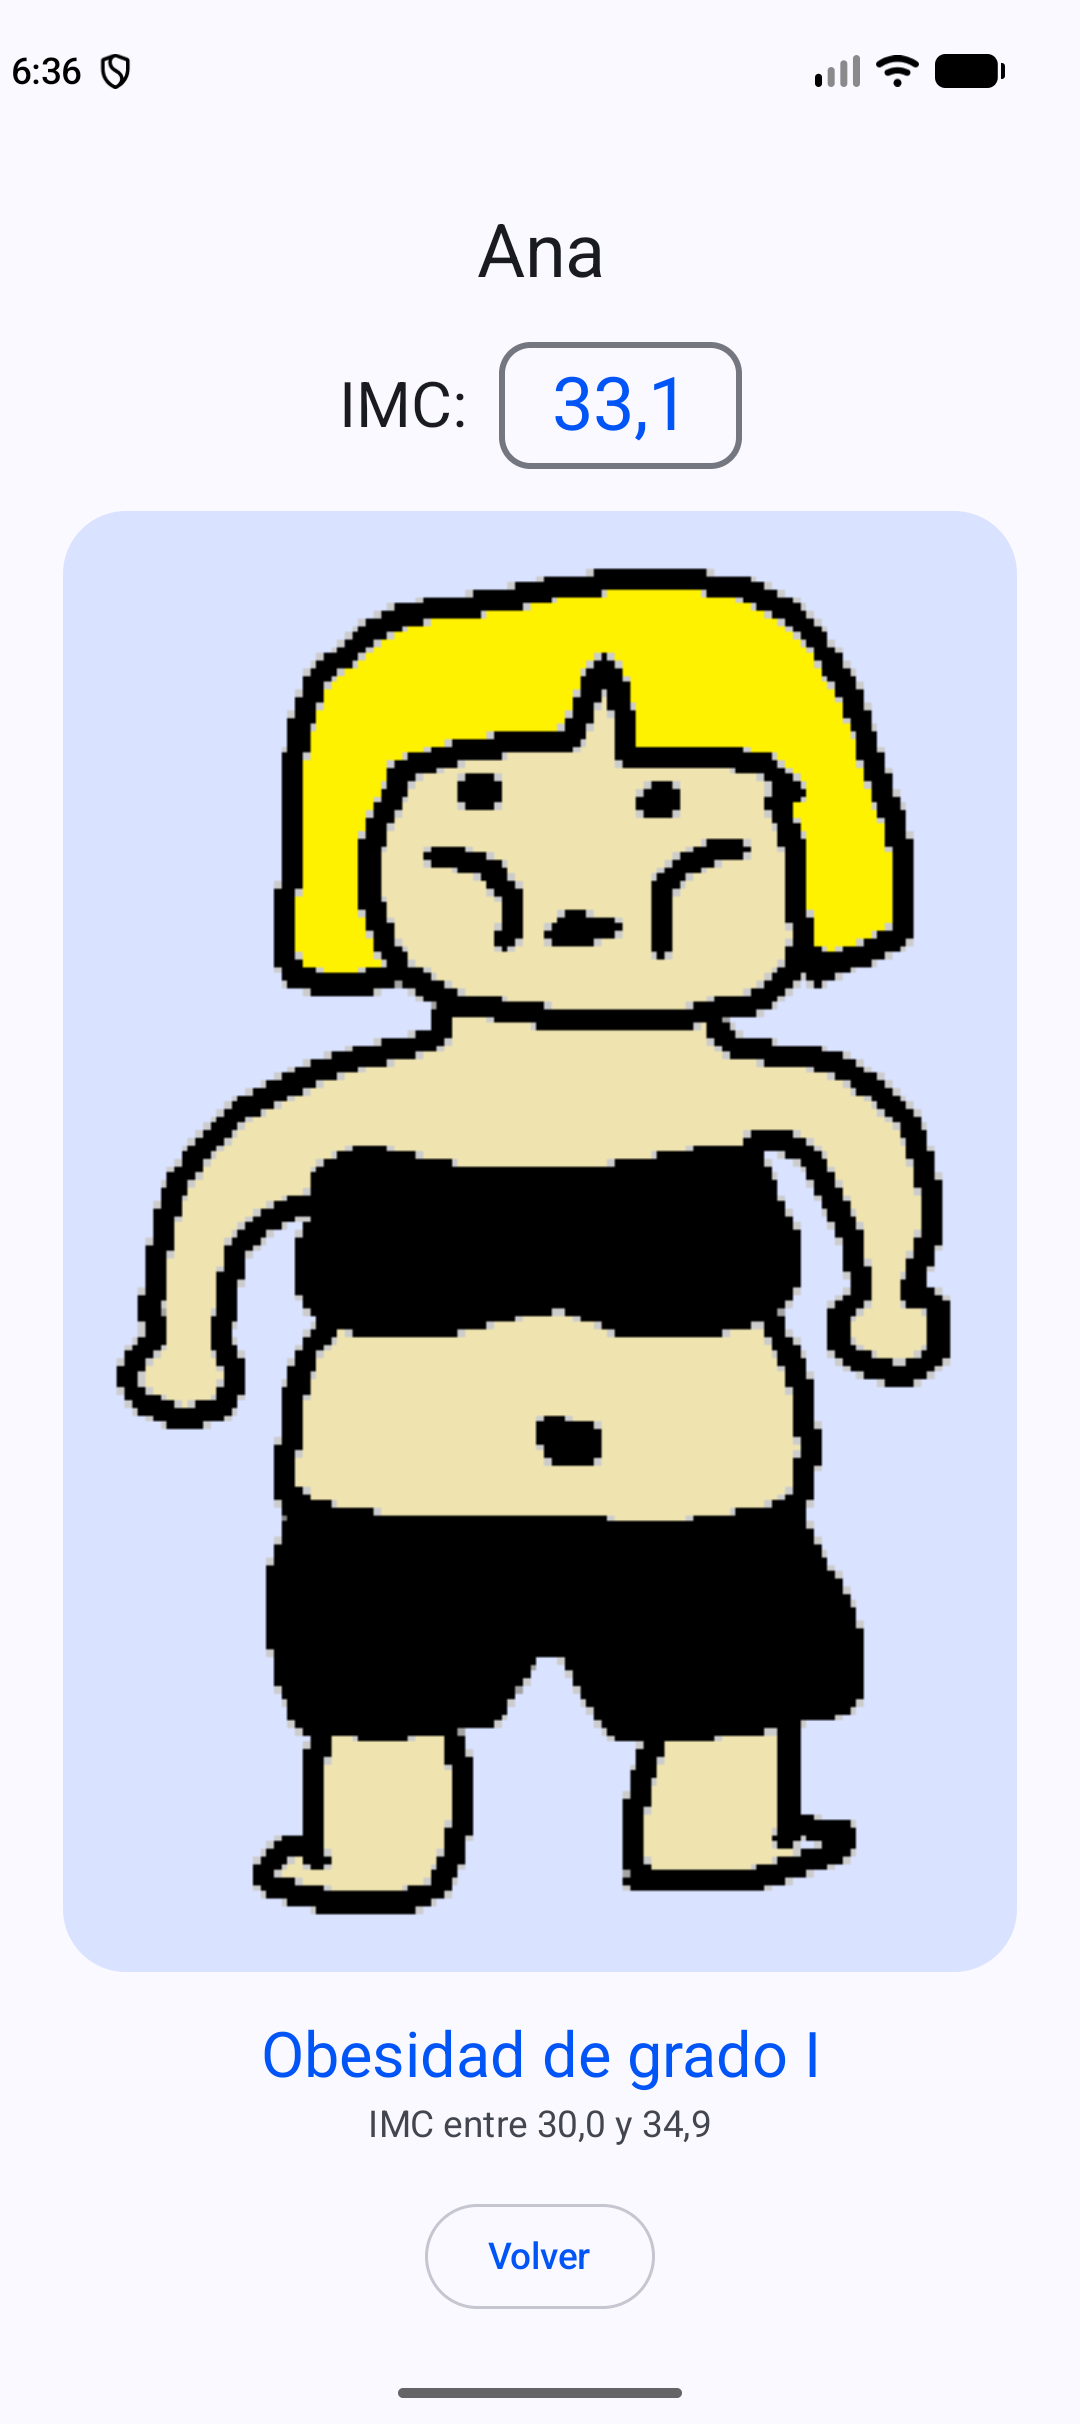
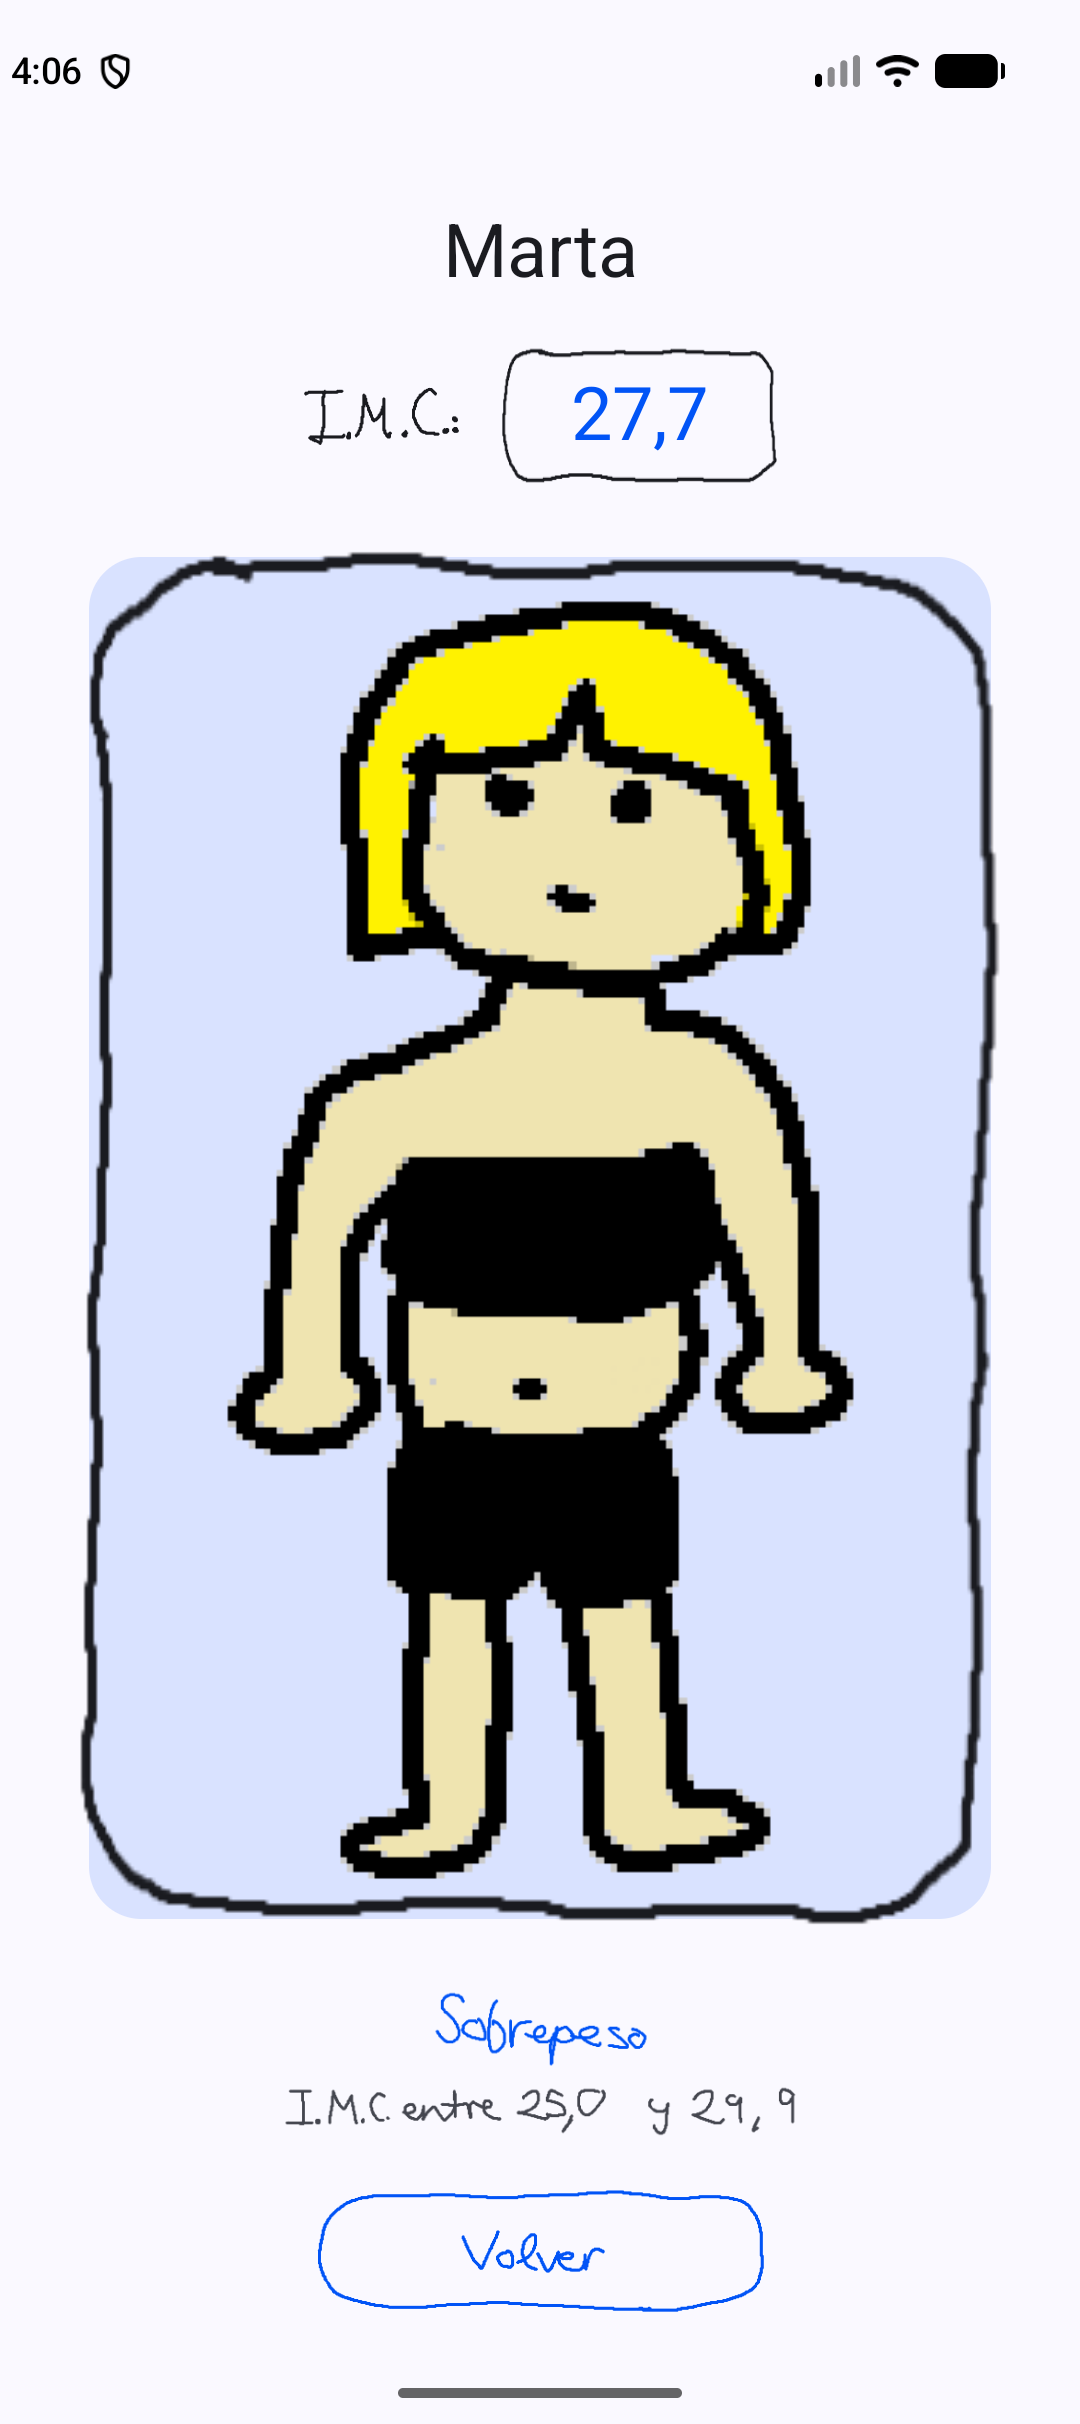
Pantalla de resultado dibujada a mano: IMC, caja, marco, estados, intervalos y botón Volver

diff --git a/app/src/main/java/com/gonzalo/calculadora_imc/ui/ResultadoScreen.kt b/app/src/main/java/com/gonzalo/calculadora_imc/ui/ResultadoScreen.kt
@@ -3,7 +3,7 @@ package com.gonzalo.calculadora_imc.ui
 import android.content.res.Configuration
 import androidx.compose.foundation.Image
 import androidx.compose.foundation.background
-import androidx.compose.foundation.border
+import androidx.compose.foundation.clickable
 import androidx.compose.foundation.layout.Arrangement
 import androidx.compose.foundation.layout.Box
 import androidx.compose.foundation.layout.Column
@@ -18,19 +18,24 @@ import androidx.compose.foundation.layout.width
 import androidx.compose.foundation.rememberScrollState
 import androidx.compose.foundation.shape.RoundedCornerShape
 import androidx.compose.foundation.verticalScroll
-import androidx.compose.material3.ButtonDefaults
 import androidx.compose.material3.MaterialTheme
-import androidx.compose.material3.OutlinedButton
 import androidx.compose.material3.Surface
 import androidx.compose.material3.Text
 import androidx.compose.runtime.Composable
 import androidx.compose.ui.Alignment
 import androidx.compose.ui.Modifier
+import androidx.compose.ui.draw.clip
+import androidx.compose.ui.graphics.ColorFilter
+import androidx.compose.ui.layout.ContentScale
 import androidx.compose.ui.platform.LocalConfiguration
 import androidx.compose.ui.res.painterResource
+import androidx.compose.ui.semantics.Role
+import androidx.compose.ui.semantics.contentDescription
+import androidx.compose.ui.semantics.semantics
 import androidx.compose.ui.text.style.TextAlign
 import androidx.compose.ui.tooling.preview.Preview
 import androidx.compose.ui.unit.dp
+import com.gonzalo.calculadora_imc.R
 import com.gonzalo.calculadora_imc.imc.ResultadoImc
 import com.gonzalo.calculadora_imc.imc.Sexo
 import com.gonzalo.calculadora_imc.imc.formatear
@@ -43,7 +48,23 @@ import com.gonzalo.calculadora_imc.ui.theme.Calculadora_IMCTheme
  *   - "resultado": nombre, sexo e IMC calculado (parámetro de DATOS).
  *   - "onVolver": una función que llamamos al pulsar el botón (parámetro de ACCIÓN).
  * La pantalla no sabe qué pasa al volver: eso lo decide quien la usa.
+ *
+ * Los textos fijos, las cajas y el botón son DIBUJOS A MANO (res/drawable-nodpi/res_*.png).
+ * Solo el nombre y el número del IMC se escriben con letra normal, porque cambian cada vez.
  */
+
+/** Los estados dibujados, en el MISMO orden que RANGOS_IMC (0 = Bajo peso ... 5 = Obesidad de grado III). */
+private val ESTADOS_DIBUJADOS = listOf(
+    R.drawable.res_estado_1, R.drawable.res_estado_2, R.drawable.res_estado_3,
+    R.drawable.res_estado_4, R.drawable.res_estado_5, R.drawable.res_estado_6,
+)
+
+/** Los intervalos dibujados ("I.M.C. entre 18,5 y 24,9"...), en el mismo orden. */
+private val INTERVALOS_DIBUJADOS = listOf(
+    R.drawable.res_intervalo_1, R.drawable.res_intervalo_2, R.drawable.res_intervalo_3,
+    R.drawable.res_intervalo_4, R.drawable.res_intervalo_5, R.drawable.res_intervalo_6,
+)
+
 @Composable
 fun ResultadoScreen(
     resultado: ResultadoImc,
@@ -93,11 +114,11 @@ fun ResultadoScreen(
     }
 }
 
-/** Nombre del usuario y el IMC dentro de un recuadro. */
+/** Nombre del usuario y el IMC dentro de la caja dibujada. */
 @Composable
 private fun Cabecera(resultado: ResultadoImc) {
     Column(horizontalAlignment = Alignment.CenterHorizontally) {
-        // --- Nombre ---
+        // --- Nombre (letra normal: lo ha escrito el usuario) ---
         Text(
             text = resultado.nombre,
             style = MaterialTheme.typography.headlineMedium,
@@ -107,73 +128,103 @@ private fun Cabecera(resultado: ResultadoImc) {
 
         Spacer(Modifier.height(16.dp))
 
-        // --- "IMC:" y el número dentro de un recuadro ---
+        // --- "I.M.C.:" dibujado y el número dentro de la caja dibujada ---
         Row(verticalAlignment = Alignment.CenterVertically) {
-            Text(
-                text = "IMC:",
-                style = MaterialTheme.typography.headlineSmall,
+            Dibujo(
+                id = R.drawable.res_imc,
+                descripcion = "IMC",
                 color = MaterialTheme.colorScheme.onSurface,
+                modifier = Modifier.height(28.dp),
             )
             Spacer(Modifier.width(12.dp))
-            Text(
-                text = formatear(resultado.imc),
-                style = MaterialTheme.typography.headlineMedium,
-                color = MaterialTheme.colorScheme.primary,
-                modifier = Modifier
-                    .border(2.dp, MaterialTheme.colorScheme.outline, RoundedCornerShape(12.dp))
-                    .padding(horizontal = 20.dp, vertical = 6.dp),
-            )
+            Box(contentAlignment = Alignment.Center) {
+                // matchParentSize: la caja se estira al tamaño del número, sea cual sea.
+                Image(
+                    painter = painterResource(R.drawable.res_caja_imc),
+                    contentDescription = null,
+                    colorFilter = ColorFilter.tint(MaterialTheme.colorScheme.onSurface),
+                    contentScale = ContentScale.FillBounds,
+                    modifier = Modifier.matchParentSize(),
+                )
+                Text(
+                    text = formatear(resultado.imc),
+                    style = MaterialTheme.typography.headlineMedium,
+                    color = MaterialTheme.colorScheme.primary,
+                    modifier = Modifier.padding(horizontal = 28.dp, vertical = 10.dp),
+                )
+            }
         }
     }
 }
 
-/** El dibujo que corresponde al sexo y al estado, dentro de un marco de color suave. */
+/**
+ * El dibujo que corresponde al sexo y al estado, dentro del marco dibujado.
+ * Dentro del marco dejamos el fondo de color suave para que los muñecos se vean bien también en modo oscuro.
+ */
 @Composable
 private fun Ilustracion(resultado: ResultadoImc, modifier: Modifier) {
-    Box(
-        modifier = modifier
-            .background(MaterialTheme.colorScheme.primaryContainer, RoundedCornerShape(24.dp))
-            .padding(16.dp),
-        contentAlignment = Alignment.Center,
-    ) {
+    // En un Box lo que va DESPUÉS se pinta ENCIMA: primero el fondo, luego el muñeco y al final el marco.
+    Box(modifier = modifier, contentAlignment = Alignment.Center) {
+        Box(
+            modifier = Modifier
+                .matchParentSize()
+                .padding(10.dp)
+                .background(MaterialTheme.colorScheme.primaryContainer, RoundedCornerShape(20.dp))
+                .padding(12.dp),
+            contentAlignment = Alignment.Center,
+        ) {
+            Image(
+                painter = painterResource(resultado.ilustracion),
+                contentDescription = "Ilustración: ${resultado.sexo.texto.lowercase()}, ${resultado.rango.nombre.lowercase()}",
+                modifier = Modifier.fillMaxSize(),
+            )
+        }
         Image(
-            painter = painterResource(resultado.ilustracion),
-            contentDescription = "Ilustración: ${resultado.sexo.texto.lowercase()}, ${resultado.rango.nombre.lowercase()}",
-            modifier = Modifier.fillMaxSize(),
+            painter = painterResource(R.drawable.res_marco),
+            contentDescription = null,
+            colorFilter = ColorFilter.tint(MaterialTheme.colorScheme.onSurface),
+            contentScale = ContentScale.FillBounds,
+            modifier = Modifier.matchParentSize(),
         )
     }
 }
 
-/** El valor cualitativo (estado según la tabla de la SEEDO), su intervalo y el botón Volver. */
+/** El valor cualitativo (estado según la tabla de la OMS), su intervalo y el botón Volver, todo dibujado. */
 @Composable
 private fun Estado(resultado: ResultadoImc, onVolver: () -> Unit) {
     val rango = resultado.rango
 
     Column(horizontalAlignment = Alignment.CenterHorizontally) {
-        Text(
-            text = rango.nombre,
-            style = MaterialTheme.typography.headlineSmall,
+        Dibujo(
+            id = ESTADOS_DIBUJADOS[resultado.indice],
+            descripcion = rango.nombre,
             color = MaterialTheme.colorScheme.primary,
-            textAlign = TextAlign.Center,
+            modifier = Modifier.height(32.dp),
         )
-        Text(
-            text = textoIntervalo(rango.minimo, rango.maximo),
-            style = MaterialTheme.typography.bodyMedium,
+        Spacer(Modifier.height(4.dp))
+        Dibujo(
+            id = INTERVALOS_DIBUJADOS[resultado.indice],
+            descripcion = textoIntervalo(rango.minimo, rango.maximo),
             color = MaterialTheme.colorScheme.onSurfaceVariant,
+            modifier = Modifier.height(22.dp),
         )
 
         Spacer(Modifier.height(16.dp))
 
-        OutlinedButton(
-            onClick = onVolver,
-            colors = ButtonDefaults.outlinedButtonColors(contentColor = MaterialTheme.colorScheme.primary),
-        ) {
-            Text("Volver")
-        }
+        // Botón dibujado: la imagen ES el botón. clip redondea la zona del "toque" y el efecto al pulsar.
+        Dibujo(
+            id = R.drawable.res_volver,
+            color = MaterialTheme.colorScheme.primary,
+            modifier = Modifier
+                .height(52.dp)
+                .clip(RoundedCornerShape(50))
+                .clickable(role = Role.Button, onClick = onVolver)
+                .semantics { contentDescription = "Volver" },
+        )
     }
 }
 
-/** Texto del intervalo del rango: "IMC entre 25,0 y 26,9", "IMC menor de 18,5"... */
+/** Texto del intervalo del rango, para los lectores de pantalla: "IMC entre 25,0 y 29,9", "IMC menor de 18,5"... */
 private fun textoIntervalo(minimo: Double, maximo: Double): String = when {
     minimo <= 0.0 -> "IMC menor de ${formatear(maximo)}"
     maximo.isInfinite() -> "IMC de ${formatear(minimo)} o más"

diff --git a/app/src/main/java/com/gonzalo/calculadora_imc/ui/FormularioScreen.kt b/app/src/main/java/com/gonzalo/calculadora_imc/ui/FormularioScreen.kt
@@ -263,7 +263,7 @@ fun FormularioScreen(
  * Si solo le damos alto (o ancho), el otro lado se calcula solo y el dibujo no se deforma.
  */
 @Composable
-private fun Dibujo(
+internal fun Dibujo(
     @DrawableRes id: Int,
     modifier: Modifier = Modifier,
     descripcion: String? = null,

diff --git a/README.md b/README.md
@@ -2,14 +2,14 @@
 
 App Android hecha 100 % con **Jetpack Compose** que calcula el **índice de masa corporal (IMC)** y muestra el estado de la persona según la clasificación oficial de la OMS, con una ilustración distinta para cada estado y para cada sexo.
 
-Todo lo que se ve es **dibujado a mano**: los muñecos del resultado y también los textos, las cajas, los círculos y el botón del formulario.
+Todo lo que se ve es **dibujado a mano**: los muñecos, y también los textos, las cajas, los círculos y los botones de las dos pantallas.
 
 No usa layouts XML, librerías de navegación ni ViewModel: solo **estado + funciones composables**.
 
 <p align="center">
   <img src="docs/capturas/formulario.png" width="220" alt="Formulario con un peso fuera de rango marcado en rojo">
-  <img src="docs/capturas/resultado.png" width="220" alt="Resultado en modo claro: IMC 33,1, obesidad de grado I">
-  <img src="docs/capturas/resultado_oscuro.png" width="220" alt="Resultado en modo oscuro: IMC 27,0, sobrepeso">
+  <img src="docs/capturas/resultado.png" width="220" alt="Resultado en modo claro: IMC 27,7, sobrepeso">
+  <img src="docs/capturas/resultado_oscuro.png" width="220" alt="Resultado en modo oscuro: IMC 32,9, obesidad de grado I">
 </p>
 
 ## Cómo funciona
@@ -95,13 +95,20 @@ Para cambiar un dibujo, sustituye el PNG por otro con **el mismo nombre** y vuel
 
 > El nombre debe ir en minúsculas, sin espacios ni tildes, o Android no lo reconoce.
 
-## El formulario dibujado a mano
+## Las pantallas dibujadas a mano
 
-Los textos, las cajas, los círculos de selección y el botón del formulario también son dibujos. Están en `app/src/main/res/drawable-nodpi`, con nombres que empiezan por `form_` (`form_titulo`, `form_caja_larga`, `form_boton`…).
+Los textos, las cajas, los círculos de selección y los botones también son dibujos. Están en `app/src/main/res/drawable-nodpi`:
 
-- Son PNG con **tinta negra sobre fondo transparente**. En la app se tiñen con `ColorFilter.tint`: blancos sobre el fondo oscuro y **rojos** cuando un valor está mal (la caja, la unidad y el aviso).
+- **Formulario**: empiezan por `form_` (`form_titulo`, `form_caja_larga`, `form_boton`…).
+- **Resultado**: empiezan por `res_` (`res_imc`, `res_caja_imc`, `res_marco`, `res_volver`, `res_estado_1` … `res_estado_6` y `res_intervalo_1` … `res_intervalo_6`). El número del estado es la columna **#** de la tabla de rangos.
+
+Cómo se usan:
+
+- Son PNG con **tinta negra sobre fondo transparente**. En la app se tiñen con `ColorFilter.tint`: en el formulario, blancos sobre el fondo oscuro y **rojos** cuando un valor está mal; en el resultado, del color del tema, así que cambian solos entre el modo claro y el oscuro.
+- **Solo lo que cambia va con letra normal**: lo que escribe el usuario, su nombre y el número del IMC. Todo lo demás es dibujo.
 - Los campos son `BasicTextField`, un campo de texto sin bordes. La caja dibujada se pone detrás, estirada a su tamaño (`ContentScale.FillBounds`). **Lo que escribe el usuario va con letra normal**, dentro de la caja.
-- Cuando el botón está desactivado se ve más clarito (`alpha`) y no responde.
+- La caja del IMC y el marco del muñeco se estiran al tamaño de lo que tienen dentro (`matchParentSize` + `FillBounds`). En el marco, el dibujo va **encima** del fondo de color: en un `Box`, lo último que se escribe es lo que se pinta delante.
+- Cuando el botón de calcular está desactivado se ve más clarito (`alpha`) y no responde.
 - Cada dibujo tiene su `contentDescription`, así que los lectores de pantalla siguen leyendo "Nombre", "Calcular IMC", etc.
 - Están en `drawable-nodpi` para que Android no los reescale según la pantalla: el tamaño lo decide el código.
 
